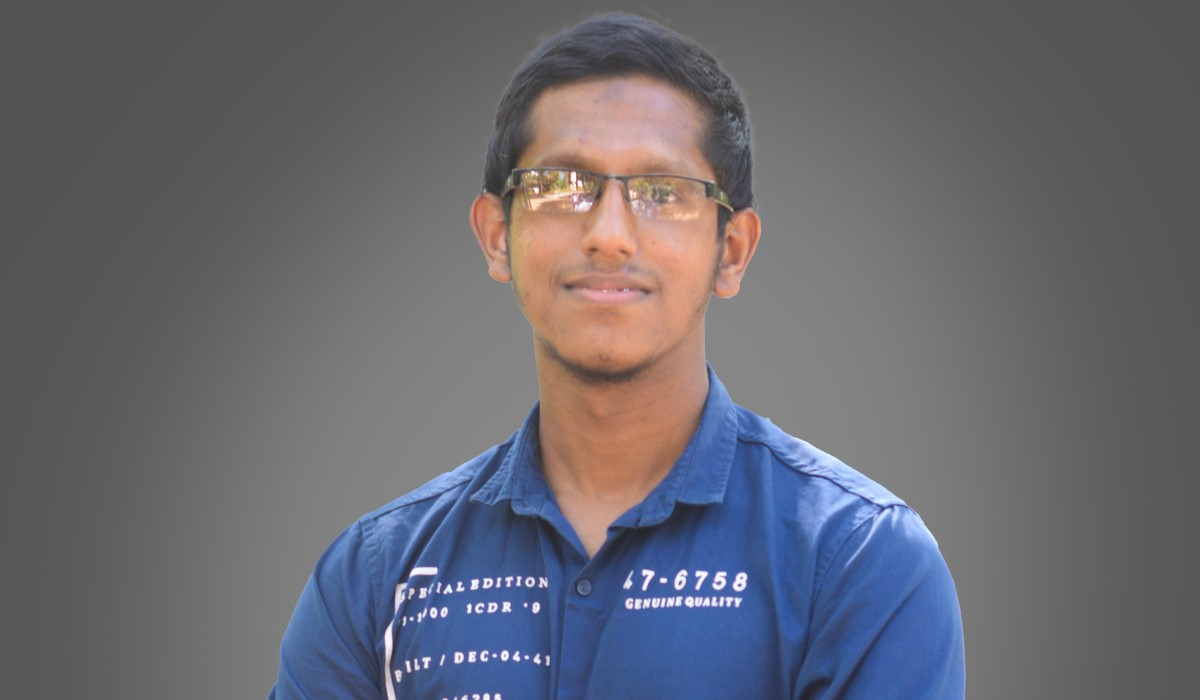
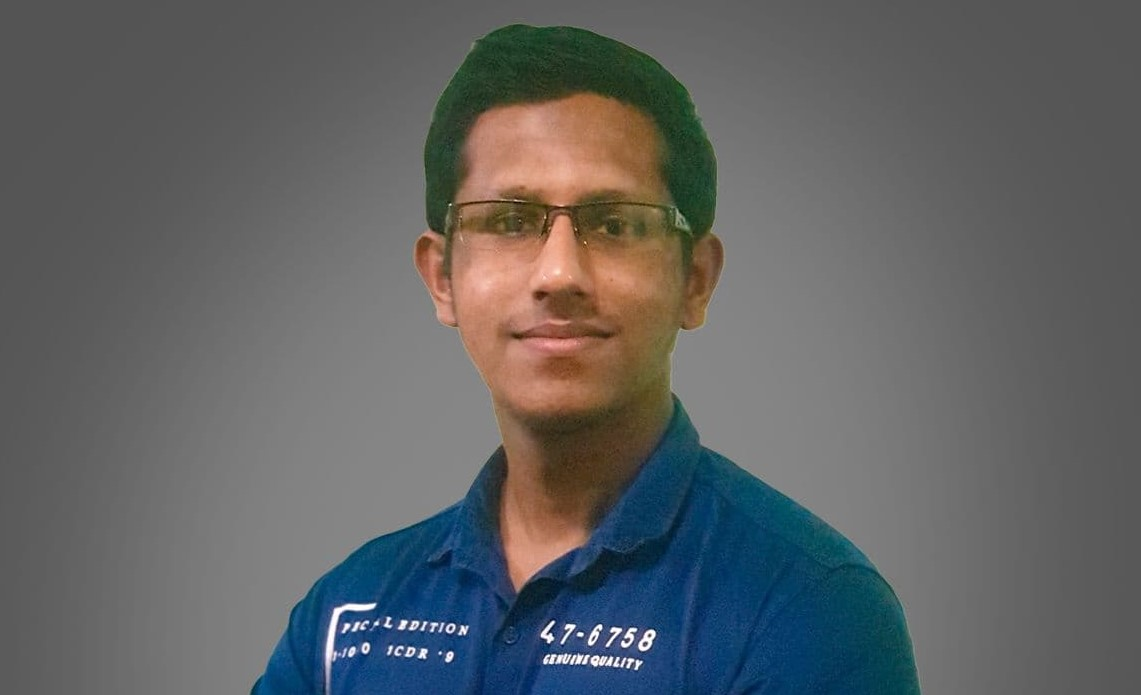
added furkhan new photo

Changed region(s): [[0.2147, 0.0, 0.8282, 1.0]]

diff --git a/index.html b/index.html
@@ -119,7 +119,7 @@
               </div>
               <div class="pb-3">
                 <h1>Members</h1>
-                <h4>100+</h4>
+                <h4>50+</h4>
               </div>
               <div>
                 <h1>Projects</h1>
